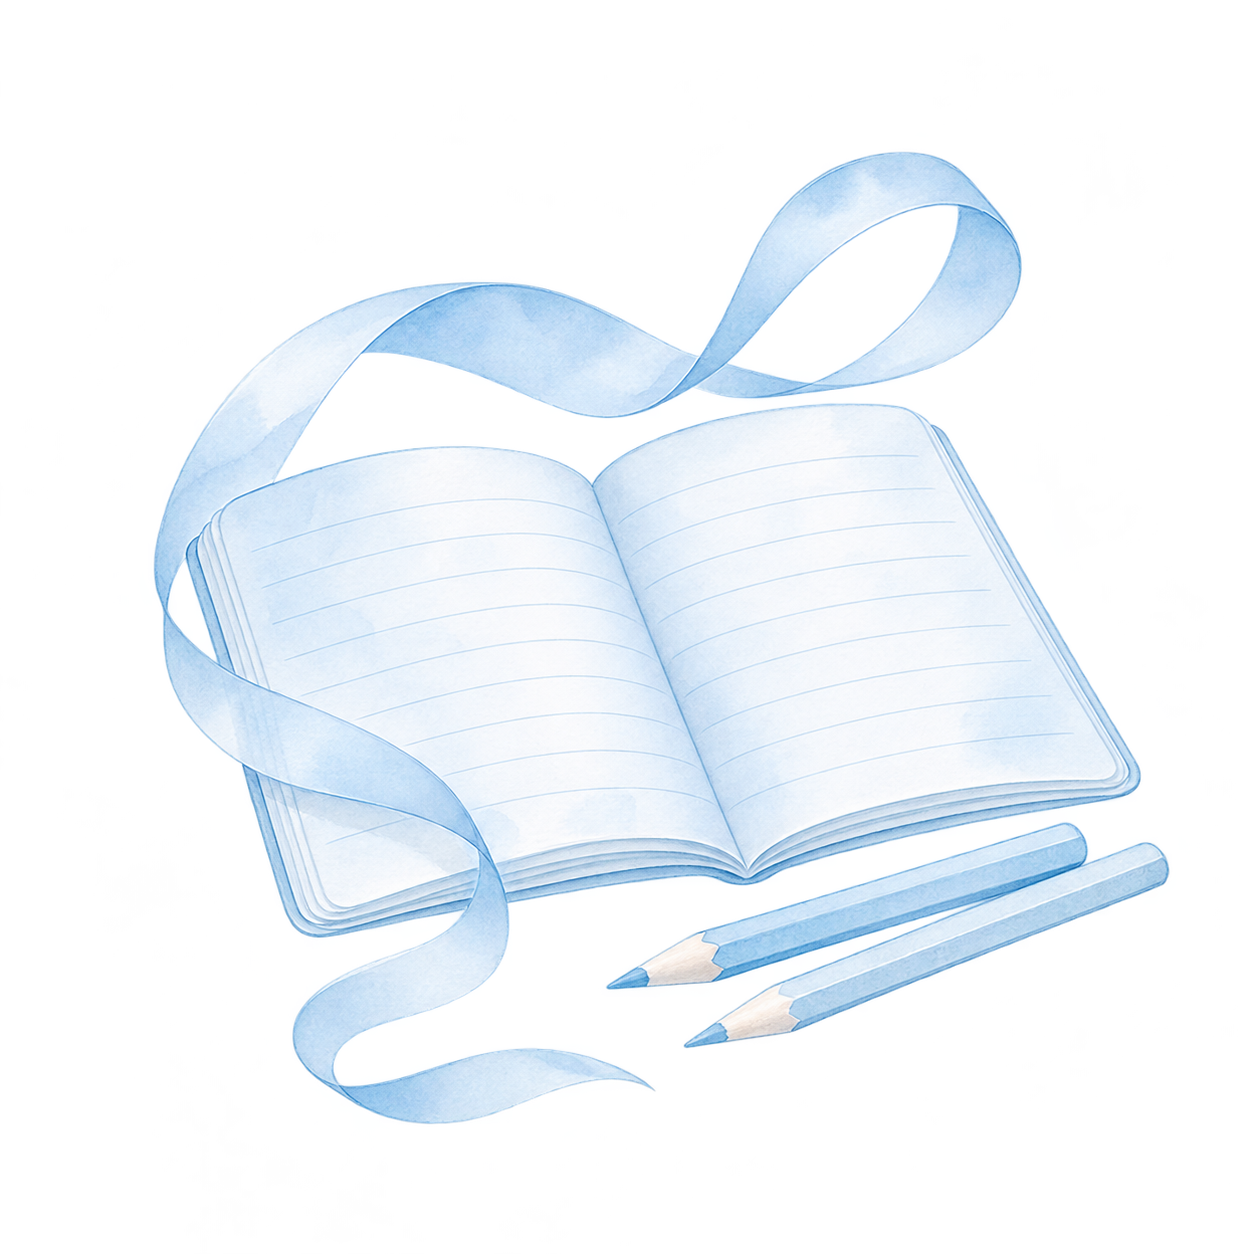
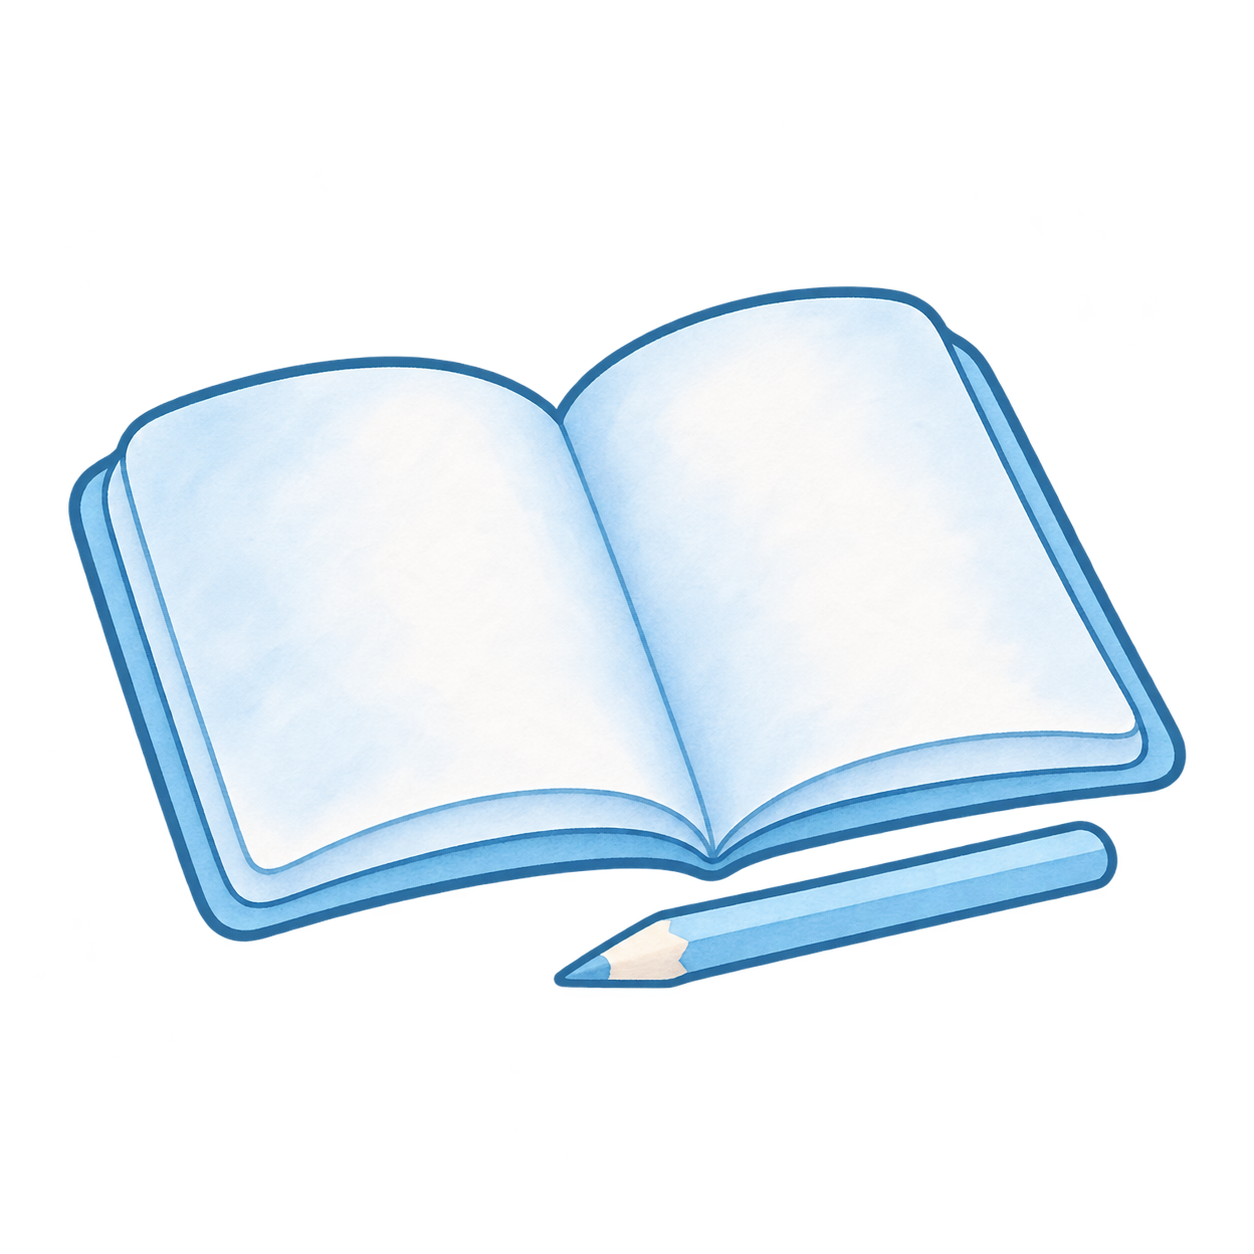
Raccorda la timeline e rifinisce box, divisori e illustrazioni

Changed region(s): [[0.0311, 0.1244, 0.9641, 0.9019]]

diff --git a/src/scripts/timeline.ts b/src/scripts/timeline.ts
@@ -1,4 +1,4 @@
-/** Una curva per riga, da sinistra a destra: il cambio riga non attraversa i testi. */
+/** Una curva continua: le righe si raccordano lungo i margini e nello spazio fra le tappe. */
 export {};
 
 const timeline = document.querySelector<HTMLElement>('.timeline');
@@ -20,7 +20,7 @@ if (timeline) {
     const nodo = parseFloat(getComputedStyle(timeline).getPropertyValue('--nodo'));
     const punti = [...timeline.querySelectorAll<HTMLElement>(':scope > .voce')].map((voce) => {
       const box = voce.getBoundingClientRect();
-      return { x: box.left - area.left + nodo / 2, y: box.top - area.top + nodo / 2 };
+      return { x: box.left - area.left + nodo / 2, y: box.top - area.top + nodo / 2, top: box.top - area.top, bottom: box.bottom - area.top };
     });
     if (punti.length < 2) return;
     svg.setAttribute('viewBox', `0 0 ${area.width} ${area.height}`);
@@ -29,7 +29,21 @@ if (timeline) {
       const a = punti[i - 1];
       const b = punti[i];
       if (b.x <= a.x) {
-        d += ` M ${b.x} ${b.y}`;
+        // La linea torna a sinistra nel corridoio libero fra le due righe.
+        const fondoRiga = Math.max(...punti.slice(Math.max(0, i - 3), i).map((p) => p.bottom));
+        const mezzo = (fondoRiga + b.top) / 2;
+        const raggio = Math.min(16, (b.y - mezzo) / 2, (b.top - fondoRiga) / 3);
+        const destra = area.width + 20;
+        const sinistra = -20;
+        d += ` L ${destra - raggio} ${a.y}`;
+        d += ` Q ${destra} ${a.y} ${destra} ${a.y + raggio}`;
+        d += ` L ${destra} ${mezzo - raggio}`;
+        d += ` Q ${destra} ${mezzo} ${destra - raggio} ${mezzo}`;
+        d += ` L ${sinistra + raggio} ${mezzo}`;
+        d += ` Q ${sinistra} ${mezzo} ${sinistra} ${mezzo + raggio}`;
+        d += ` L ${sinistra} ${b.y - raggio}`;
+        d += ` Q ${sinistra} ${b.y} ${sinistra + raggio} ${b.y}`;
+        d += ` L ${b.x} ${b.y}`;
         continue;
       }
       const centro = (a.x + b.x) / 2;

diff --git a/src/styles/pages/contatti.css b/src/styles/pages/contatti.css
@@ -326,7 +326,7 @@ a.info-valore:hover {
   }
 }
 
-/* ---------- InBallet in breve: tre punti, senza foto o pannelli ---------- */
+/* ---------- InBallet in breve: tre box essenziali con icona ---------- */
 .fondamenti {
   padding: 0 0 calc(var(--section-y) * .5);
   background: var(--white);
@@ -335,6 +335,7 @@ a.info-valore:hover {
 .fondamenti-layout {
   padding-top: 2rem;
   border-top: 1px solid var(--linea);
+  text-align: center;
 }
 
 .fondamenti-intro {
@@ -348,35 +349,43 @@ a.info-valore:hover {
 .fondamenti-lista {
   display: grid;
   grid-template-columns: repeat(3, minmax(0, 1fr));
-  gap: 3rem;
+  gap: 1.5rem;
   list-style: none;
   margin: 0;
   padding: 0;
 }
 
 .fondamento {
+  display: flex;
+  flex-direction: column;
+  align-items: center;
+  height: 100%;
   min-width: 0;
+  padding: 1.75rem 1.5rem;
+  border: 1px solid var(--linea);
+  border-radius: var(--radius-card);
+  color: inherit;
+  text-decoration: none;
+  transition: border-color var(--transition-base);
+}
+
+.fondamento:hover {
+  border-color: var(--primary-blue-dark);
+}
+
+.fondamento-icona {
+  margin-bottom: 1rem;
+  color: var(--primary-blue-dark);
+  font-size: var(--text-3xl);
+  line-height: 1;
 }
 
 .fondamento-titolo {
   margin: 0 0 .5rem;
 }
 
-.fondamento-titolo a {
-  display: inline-block;
-  min-height: 2rem;
-  color: inherit;
-  text-decoration: underline;
-  text-decoration-thickness: 1px;
-  text-underline-offset: .2em;
-  transition: color var(--transition-base);
-}
-
-.fondamento-titolo a:hover {
-  color: var(--primary-blue-dark);
-}
-
 .fondamento-testo {
+  max-width: 20rem;
   margin: 0;
 }
 
@@ -394,16 +403,7 @@ a.info-valore:hover {
     gap: 1rem;
   }
 
-  .fondamento-titolo {
-    display: inline;
-    margin: 0 .5rem 0 0;
-  }
-
-  .fondamento-titolo::after {
-    content: ':';
-  }
-
-  .fondamento-testo {
-    display: inline;
+  .fondamento {
+    padding: 1.5rem;
   }
 }

diff --git a/src/styles/pages/index.css b/src/styles/pages/index.css
@@ -462,6 +462,17 @@ davvero andando: niente riquadro nero mentre carica */
     text-align: center;
   }
 
+  /* Onde leggere su tutta la card, sotto alle figure e ai testi. */
+  .corsi-indice .corsi-stile::before {
+    content: '';
+    position: absolute;
+    inset: 0;
+    z-index: -1;
+    background: var(--decoro-onde) center / cover no-repeat;
+    opacity: .65;
+    pointer-events: none;
+  }
+
   .corsi-stile-foto {
     display: none;
   }
@@ -813,6 +824,20 @@ davvero andando: niente riquadro nero mentre carica */
   border-top: 1px solid var(--linea);
 }
 
+.oltre-elemento::after {
+  content: '';
+  position: absolute;
+  top: 0;
+  bottom: 0;
+  left: -1rem;
+  border-left: 1px solid var(--linea);
+  pointer-events: none;
+}
+
+.oltre-elemento:nth-child(2n + 1)::after {
+  content: none;
+}
+
 .oltre-mobile {
   display: none;
 }
@@ -835,6 +860,14 @@ davvero andando: niente riquadro nero mentre carica */
 @media (min-width: 1025px) {
   .oltre-lista {
     grid-template-columns: repeat(4, minmax(0, 1fr));
+  }
+
+  .oltre-elemento:nth-child(2n + 1)::after {
+    content: '';
+  }
+
+  .oltre-elemento:nth-child(4n + 1)::after {
+    content: none;
   }
 }
 

diff --git a/src/styles/components/corsi-simili.css b/src/styles/components/corsi-simili.css
@@ -26,8 +26,8 @@
   gap: 1px;
   margin: 0;
   padding: 0;
-  background: var(--linea);
-  border-block: 1px solid var(--linea);
+  background: rgb(var(--blu-rgb) / .65);
+  border-block: 1px solid rgb(var(--blu-rgb) / .65);
 }
 
 /* Ogni cella occupa 5 righe della griglia (icona, titolo, età, frequenza, «Scopri il corso») e le

diff --git a/src/styles/pages/chi-siamo.css b/src/styles/pages/chi-siamo.css
@@ -63,8 +63,7 @@
   margin-bottom: 4rem;
 }
 
-/* Tre tappe per riga, sempre in ordine cronologico da sinistra a destra.
-   Ogni riga ripete la stessa curva senza invertire le colonne. */
+/* Tre tappe per riga, da sinistra a destra; il raccordo passa fra le righe. */
 .timeline {
   --nodo: 14px;
   position: relative;

diff --git a/src/styles/components/schede-percorso.css b/src/styles/components/schede-percorso.css
@@ -35,7 +35,7 @@
 .corsi-scheda::after {
   content: '';
   position: absolute;
-  background: var(--linea);
+  background: rgb(var(--blu-rgb) / .65);
   pointer-events: none;
 }
 

diff --git a/src/assets/images/grafica-oltre/README.md b/src/assets/images/grafica-oltre/README.md
@@ -1,24 +1,21 @@
 # La danza oltre i corsi
 
-Otto illustrazioni originali ad acquerello azzurro, con fondo trasparente.
-Il riferimento visivo è la grafica di `grafica-contatti`: soggetti leggeri.
-Ogni illustrazione occupa una fascia dedicata sopra il titolo, fino a 224 × 224 px
-su desktop e tablet e 240 × 240 px su mobile. Le figure restano intere, senza
-rotazioni, ritagli o sovrapposizioni ai testi. La stessa lista diventa sfogliabile
-orizzontalmente su mobile, con un'anteprima della voce successiva e pulsanti di navigazione.
+Otto illustrazioni ad acquerello azzurro su fondo trasparente, ridisegnate
+con contorni pi? netti e pochi elementi per restare leggibili a 88 ? 88 px.
+Il riferimento di stile ? la ballerina in `grafica-corsi/figure/classica-moderna.webp`.
 
-| File | Soggetto e significato |
+| File | Soggetto |
 | --- | --- |
-| `formazione-insegnanti.png` | Manuale e tocco: studio e qualifica del percorso biennale. |
-| `formazioni-personalizzate.png` | Schede, matita e nastro: un percorso espressivo costruito su misura. |
-| `spettacoli-eventi.png` | Sipario, palco e luce: spettacoli ed eventi della scuola. |
-| `collaborazioni-scuole.png` | Quaderno, matite e nastro: danza e movimento nel contesto scolastico. |
-| `sportello-psicologico.png` | Due poltrone in dialogo: ascolto e sostegno alle famiglie. |
-| `progetto-noiconvoi.png` | Giovani e volontari che danzano insieme: partecipazione e sostegno reciproco. |
-| `classi-integrate.png` | Bambini diversi e insegnante in cerchio: accoglienza nel gruppo di danza. |
-| `sostenitori.png` | Mani che sostengono un cuore: donazioni e volontariato a supporto dei progetti. |
+| `formazione-insegnanti.png` | Manuale aperto e tocco. |
+| `formazioni-personalizzate.png` | Due schede unite da un nastro. |
+| `spettacoli-eventi.png` | Sipario e palco. |
+| `collaborazioni-scuole.png` | Quaderno aperto e matita. |
+| `sportello-psicologico.png` | Due poltrone in dialogo. |
+| `progetto-noiconvoi.png` | Due giovani che danzano insieme. |
+| `classi-integrate.png` | Insegnante e due bambini in cerchio. |
+| `sostenitori.png` | Una mano che sostiene un cuore. |
 
-Sorgenti PNG trasparenti, convertite in WebP da `Img.astro` al build
-in varianti responsive da 240, 480 e 720 px e caricate in modo differito. I file originali
-non vengono serviti al browser. Le immagini sono decorative (`alt=""`)
-perché titoli e descrizioni forniscono già il contenuto della cella.
+Le PNG vengono convertite da `Img.astro` in WebP responsive da 160 e 320 px.
+Su desktop e tablet sono piccoli elementi decorativi sopra il filetto di ogni voce;
+su mobile la sezione conserva le schede fotografiche a scorrimento.
+Le illustrazioni hanno `alt=""`: titoli e descrizioni forniscono il contenuto.
